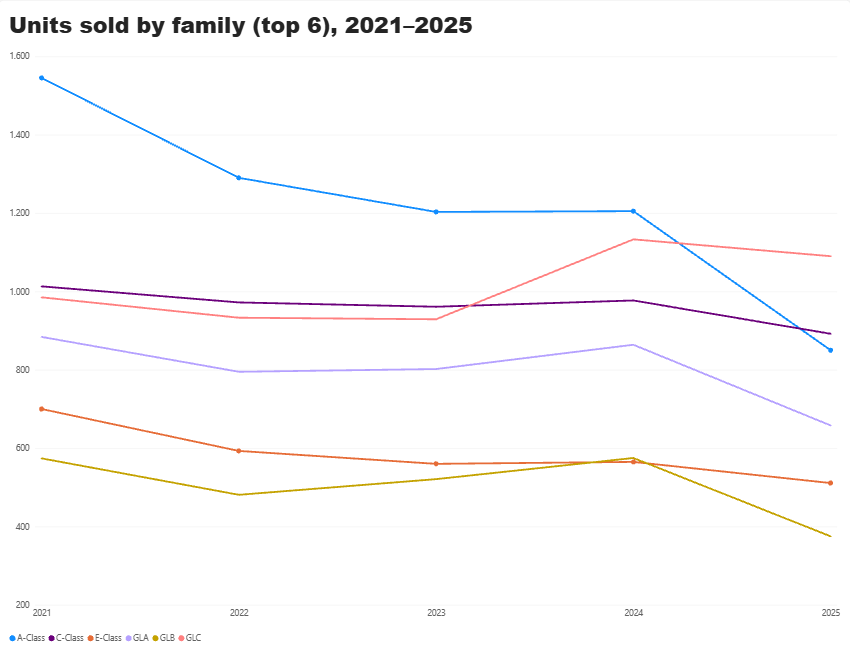
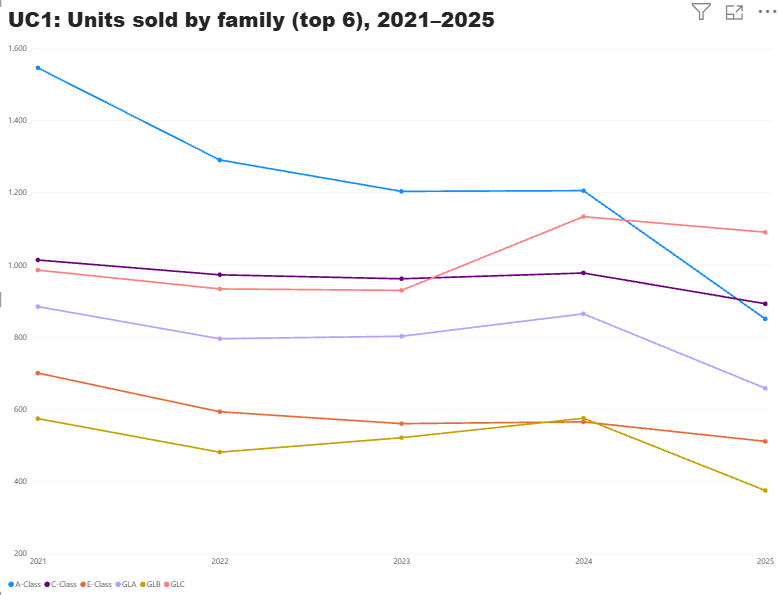
docs: update Power BI UC1 evidence 92 and add UC2 evidence 93

diff --git a/docs/evidence/README.md b/docs/evidence/README.md
@@ -96,6 +96,7 @@
 | 89 | `dbt/89_dbt_pro_fct_sales_incremental_0_rows.png` | `PRO · build` con el comando normal: `fct_sales` incremental procesa 0 filas | 2026-11-24 |
 | 90 | `dbt/90_dbt_pro_job_success_incremental_gold.png` | Run de `PRO · build` en Success (rama `main`, commit 472a6404) con el gold de ventas incremental: lo que lee Power BI | 2026-11-24 |
 | 91 | `powerbi/91_powerbi_uc1_map_and_bars_first_version.png` | Primera versión del informe de Power BI en casa: mapa y barras de unidades vendidas por país (UC1); el grupo «(En blanco)» son las ventas sin concesionario en el maestro | 2026-11-24 |
-| 92 | `powerbi/92_powerbi_uc1_units_sold_by_family_top6.png` | UC1 en Power BI: unidades vendidas por familia y año (6 principales), 2021-2025, con líneas rectas, marcadores y colores distintos | 2026-11-24 |
+| 92 | `powerbi/92_powerbi_uc1_units_sold_by_family_top6.png` | UC1 en Power BI: unidades vendidas por familia y año (6 principales), 2021-2025, con título «UC1», líneas rectas, marcadores y colores distintos | 2026-11-24 |
+| 93 | `powerbi/93_powerbi_uc2_units_sold_by_body_type.png` | UC2 en Power BI: unidades vendidas por carrocería y año, 2021-2025 (SUV en cabeza y al alza, hatchback a la baja; el descapotable empieza en 2022 por el lanzamiento del SL) | 2026-11-25 |
 
 Las capturas 01-02 y 05-08 cuentan dos anécdotas útiles para la presentación: un error real y cómo se diagnosticó y resolvió (usuario en mayúsculas; ficheros subidos sin carpeta). Las siguientes capturas (carga correcta, dbt, tests, alertas, Power BI) se añaden con el siguiente número (80 en adelante).
